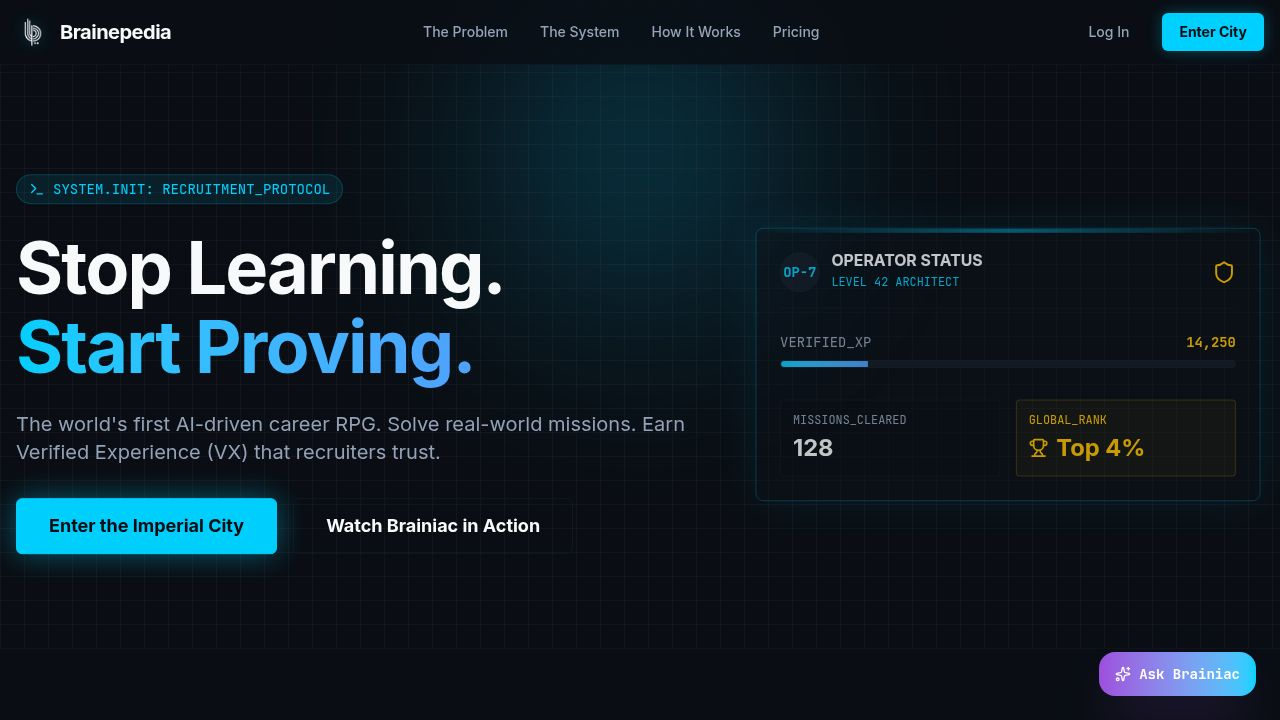
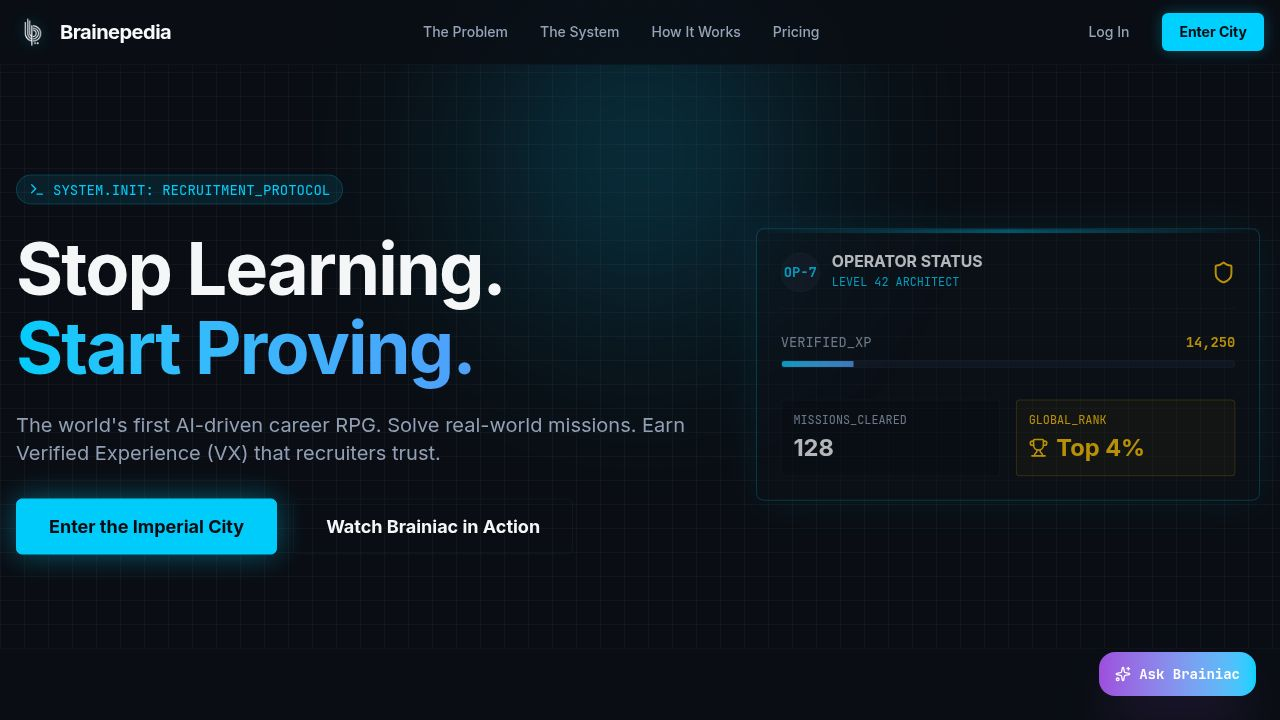
feat(task-15): Show profile stats (XP, missions solved, streak) on the public profile page
## Task
Display a full stats row on ViewProfile.tsx under the hero section, so visitors
can see a profile's XP, missions solved count, day streak, and years of experience
at a glance — not just the existing total XP figure.

## Changes

### artifacts/brainepedia/src/pages/profile/ViewProfile.tsx
- Extended the `Profile` type with three new optional fields:
  `problemsSolvedCount`, `dayStreak`, `experience`
- Updated `normProfile()` to map those fields from the API response,
  handling both camelCase and PascalCase variants as the rest of the file does
- Removed the lone "Total XP" block that previously floated in the top-right
  corner of the hero card
- Added a 4-column responsive stats row inside the hero section (below the
  avatar / bio area) with colour-coded stat badges:
    • Total XP (amber, Sparkles icon)
    • Missions Solved (cyan, Target icon)
    • Day Streak (orange, Flame icon)
    • Experience in years (purple, Briefcase icon)
- Added a new `StatBadge` helper component used by the stats row
- Added `Flame` and `Target` icons from lucide-react to the existing import

## No deviations
Implementation matches the task spec exactly. TypeScript typecheck passes clean.

Replit-Task-Id: 18c9db33-ff9c-4ad6-aa29-171237ba3baf

diff --git a/artifacts/brainepedia/src/pages/profile/ViewProfile.tsx b/artifacts/brainepedia/src/pages/profile/ViewProfile.tsx
@@ -14,12 +14,14 @@ import {
   Award,
   Briefcase,
   Crown,
+  Flame,
   Github,
   Globe,
   Linkedin,
   Pin,
   PinOff,
   Sparkles,
+  Target,
   Twitter,
   Facebook,
 } from "lucide-react";
@@ -44,6 +46,9 @@ type Profile = {
   twitter?: string;
   totalXP?: number;
   currentSubscription?: number;
+  problemsSolvedCount?: number;
+  dayStreak?: number;
+  experience?: number;
 };
 type Badge = {
   id?: string;
@@ -299,13 +304,34 @@ export default function ViewProfile() {
                 <SocialLink href={profile.facebook} icon={Facebook} label="Facebook" />
               </div>
             </div>
-            <div className="text-right shrink-0">
-              <div className="text-[10px] uppercase tracking-wider font-mono text-muted-foreground">Total XP</div>
-              <div className="text-3xl font-bold text-amber-400 inline-flex items-center gap-1">
-                <Sparkles className="h-5 w-5" />
-                {(profile.totalXP ?? 0).toLocaleString()}
-              </div>
-            </div>
+          </div>
+
+          {/* Stats row */}
+          <div className="relative mt-6 grid grid-cols-2 sm:grid-cols-4 gap-3">
+            <StatBadge
+              icon={<Sparkles className="h-4 w-4 text-amber-400" />}
+              label="Total XP"
+              value={(profile.totalXP ?? 0).toLocaleString()}
+              valueClass="text-amber-400"
+            />
+            <StatBadge
+              icon={<Target className="h-4 w-4 text-cyan-400" />}
+              label="Missions Solved"
+              value={(profile.problemsSolvedCount ?? 0).toLocaleString()}
+              valueClass="text-cyan-400"
+            />
+            <StatBadge
+              icon={<Flame className="h-4 w-4 text-orange-400" />}
+              label="Day Streak"
+              value={`${profile.dayStreak ?? 0}d`}
+              valueClass="text-orange-400"
+            />
+            <StatBadge
+              icon={<Briefcase className="h-4 w-4 text-[#A78BFA]" />}
+              label="Experience"
+              value={`${profile.experience ?? 0} yr${(profile.experience ?? 0) === 1 ? "" : "s"}`}
+              valueClass="text-[#A78BFA]"
+            />
           </div>
         </motion.section>
 
@@ -523,6 +549,30 @@ function SocialLink({
   );
 }
 
+function StatBadge({
+  icon,
+  label,
+  value,
+  valueClass,
+}: {
+  icon: React.ReactNode;
+  label: string;
+  value: string;
+  valueClass?: string;
+}) {
+  return (
+    <div className="flex items-center gap-3 rounded-xl bg-white/5 border border-white/8 px-4 py-3">
+      <div className="shrink-0">{icon}</div>
+      <div className="min-w-0">
+        <div className="text-[10px] font-mono uppercase tracking-wider text-muted-foreground leading-none mb-1">
+          {label}
+        </div>
+        <div className={`text-lg font-bold leading-none ${valueClass ?? ""}`}>{value}</div>
+      </div>
+    </div>
+  );
+}
+
 function Empty({ text }: { text: string }) {
   return (
     <div className="py-10 text-center text-sm text-muted-foreground font-mono border border-dashed border-white/10 rounded-lg">
@@ -548,6 +598,9 @@ function normProfile(d: any): Profile {
     twitter: d.twitter || d.Twitter,
     totalXP: Number(d.totalXP ?? d.TotalXP ?? d.totalXp ?? 0),
     currentSubscription: Number(d.currentSubscription ?? d.CurrentSubscription ?? 0),
+    problemsSolvedCount: Number(d.problemsSolvedCount ?? d.ProblemsSolvedCount ?? d.missionsSolved ?? d.MissionsSolved ?? 0),
+    dayStreak: Number(d.dayStreak ?? d.DayStreak ?? d.streak ?? d.Streak ?? 0),
+    experience: Number(d.experience ?? d.Experience ?? d.yearsExperience ?? d.YearsExperience ?? 0),
   };
 }
 